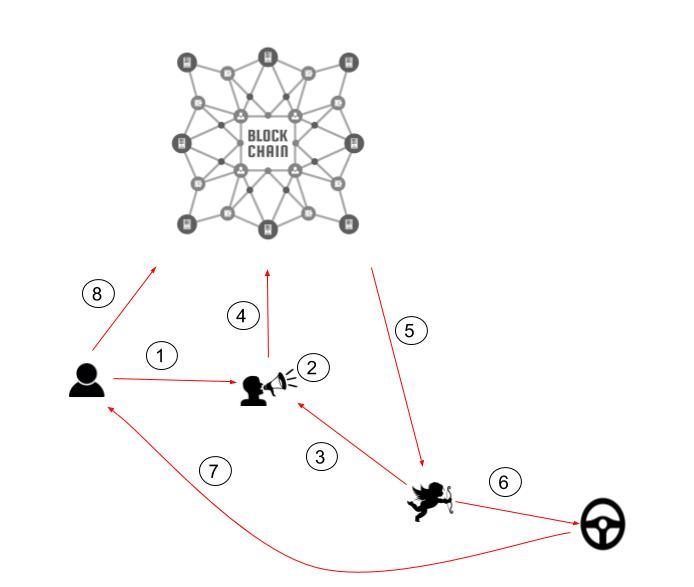
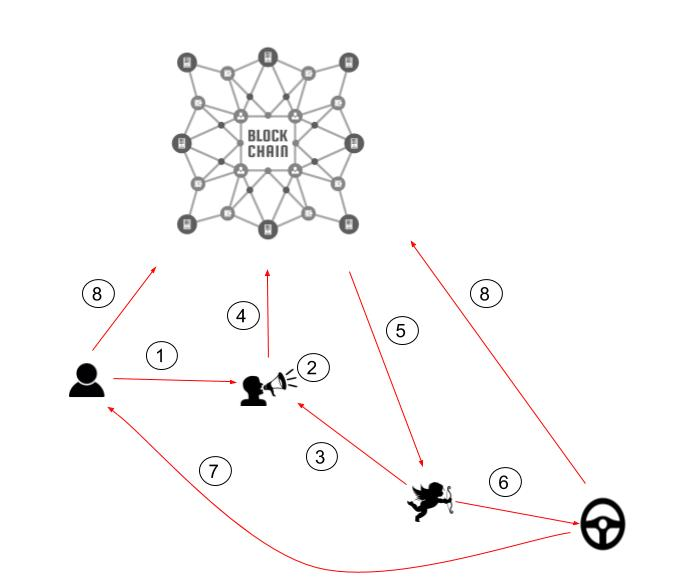
Added ride marketplace doc

diff --git a/docs/marketplace.md b/docs/marketplace.md
@@ -1,0 +1,110 @@
+# Moov Decentralized Ride Hailing Marketplace
+&nbsp;&nbsp;&nbsp;&nbsp;&nbsp;&nbsp; In yesterday’s world there were individual taxi services that coordinated rides between riders and taxi drivers. In today’s world we have Uber and Lyft, who have fully automated ride coordination but as an unfortunate consequence own the entire marketplace. Though people are paying significantly less today than they were with yesterday’s slower taxi services, this oligopolization allows Uber and Lyft to charge artificially high brokerage margins(25-40%) and not prioritize user satisfaction or new innovations.  
+
+To dissolve this oligopoly, it is necessary to understand the different parts to Uber and Lyft. The main services offered by them can be listed as follows
+1. Driver Identity checks and Vehicle Inspections.
+2. Public facing servers for users and drivers to connect with each other.
+3. Phone apps for drivers and riders to communicate with servers.
+4. Software to match drivers and riders and perform price point negotiation.
+5. Software to decide the cost of a ride.
+6. Payment processing and escrow.
+7. Handling disputes and rider/driver reputation.
+
+&nbsp;&nbsp;&nbsp;&nbsp;&nbsp;&nbsp; All these different services can be seen as part of a vertical, that is they are individual services dependent on each other to deliver the final ride hailing service. However it is not necessary that one entity provides all the services but by doing so the entity establishes a vertical monopoly. In an alternative scenario, if there were multiple providers in each horizontal and they competed against each other to provide their particular service at the cheapest price to their adjacent horizontals, it would be less of a monopoly. And perhaps as a consequence of tighter competition the cost of the final service maybe a lot cheaper. Is it possible to realize such a system without having to add more complexity to the life of the end user?  
+
+&nbsp;&nbsp;&nbsp;&nbsp;&nbsp;&nbsp; We predict that in the future Uber and Lyft will be dismantled into smaller entities that will specialize in each of the services. Not only will such a change reduce number of single point of failures and strengthen the ride hailing ecosystem as a whole, the resulting tight competition will ensure that the cost of ride hailing will reduce even more over time. We want to devise an open communication protocol leveraging smart contracts to standardize the communication between these different entities. Thus reducing the need for centralization or the middle man who would charge an exorbitant amount to coordinate the actions of the various entities.  
+
+---------------------------------------------------------------------------
+
+#### v0.1 Simple Decentralized Ride hailing
+![v0.1](whitepaper/img/v0_1.jpg)  
+
+&nbsp;&nbsp;&nbsp;&nbsp;&nbsp;&nbsp; This is the simplest implementation of a decentralized ride hailing marketplace as shown in the [demo](http://moovlab.online:8000). A smart contract is hosted on the blockchain, a rider pings the smart contract with a ride request containing the pickup and dropoff location attached with the money(in protocol tokens) they are willing to pay. The smart contract authenticates the validity of a request, transfers money from the user’s account to itself and adds the ride request to queue. On the other end of smart contract, drivers are listening to the queue and the first one to accept a ride request receives it. After the driver picks up and drops off the rider at specified location, the rider will command the smart contract to release the money to the driver.  
+
+This prototype demonstrates how a purely decentralized ride hailing service can be built without the need for any middlemen. However, there are some drawbacks.
+
+###### User Perspective:
+* Riders do not know the correct price for a particular ride, thus they are expected to take random guesses.
+* Drivers cannot be pragmatically expected to sieve through the massive number of ride requests and find the one that gives them the best bang for their buck.
+* There is no inherent mechanism to handle disputes between the driver and rider.   
+###### Technical Perspective:
+* All the interactions happen on chain, which can be very slow and inefficient.
+
+---------------------------------------------------------------------------
+
+#### v0.2: Uber plugged to the blockchain
+![v0.2](whitepaper/img/v0_2.jpg)  
+
+In this improvised model a new entity has been added, the matchmaker.   
+1. Riders fill a ride request with the pick up and drop off locations, authorized matchmaker, matchmaker fee(in protocol tokens) and maximum money they are willing to pay for the ride(in protocol tokens), then sign it and send it to the matchmaker.
+2. When the matchmaker receives a ride request, it will match the request with the best driver based on parameters like location, rating, price etc.
+3. The matchmaker will then forward the request to a driver, if the request meets the driver’s requirement, he will sign it and send it back matchmaker, who will then forward entire request to the blockchain for processing.
+4. The blockchain will verify the signatures then notify the driver, then the driver will pick up the rider then drop him at specified location and notify the smart contract.
+5. After the rider has been dropped, he will command the smart contract to distribute the money to the various parties as agreed.
+6. However, if one of the parties files a dispute, the blockchain will kick the transaction to the matchmaker, ask it to resolve the dispute and distribute the money as it sees fit.  
+
+Although this is a step up, it is basically Uber using the blockchain for payment processing instead of Visa or Amex. As this model scales it will likely produce monopolies due to the network effect or the winner-take-all effect. Since the probability of finding the best match is directly dependent on the number of people using a matchmaker thus it is likely to produce a few gigantic matchmakers. Consequently the barrier to entry for a new matchmaker will be high resulting in reduced competition thus hampering the process of capitalism.  
+
+![v0.2_scale](whitepaper/img/v0_2_scale.jpg)  
+
+---------------------------------------------------------------------------
+
+#### v0.3: Dismantled Uber
+
+![v0.3](whitepaper/img/v0_3.jpg)  
+
+In this improvised model a new entity has been added, the ride manager(guy with megaphone) who is incharge of broadcasting ride requests received from riders. On the other hand, the matchmaker is only incharge of going through the ride requests broadcasted by different managers and finding the best match for its drivers. Adding the ride manager decouples the broadcasting and ride matching layers thus taking care of the network effect. As this model scales it is significantly less likely to produce oligopolies.  
+
+![v0.3_scale](whitepaper/img/v0_3_scale.jpg)  
+
+---------------------------------------------------------------------------
+
+#### v0.4 With integration of state authority
+![v0.4](whitepaper/img/v0_4.jpg)  
+
+In this improvised model the government or its transportation regulating authority is also included, where it directly or indirectly(through authorized 3rd parties) enforces drivers and their vehicles to meet the safety requirements. It has to then add the the addresses of the verified drivers to a license registry hosted on the blockchain. Whenever new ride requests are sent to the chain for processing, the processing smart contract will verify that the driver address is present in the license registry. Integrating the government into the chain also allows the government to easily collect taxes to fund their invaluable services like road maintenance and emergency services.
+
+---------------------------------------------------------------------------
+
+#### v1.0 MOOV ride hailing marketplace
+
+The detailed steps of the ride hailing process:
+
+![v1.0](whitepaper/img/v0_3_detail.jpg)
+1. Rider will use the generic Moov phone app with which he can connect to any of the ride managers, while some ride managers may have their custom apps. The rider will connect with a certain ride manager and tell it where he wants to go. The ride manager will analyze current market data and respond with an estimated price and a maximum price. Through the app the rider will sign a ride request containing pickup location, drop off location, maximum price(in protocol tokens), address of the ride manager and the manager fee.
+2. The ride manager will receive the request and conduct a sub second period auction for the ride request. If anybody agrees to accept the ride request at the advertised price the manager will award it to them otherwise the manager will incrementally advertise the ride request for higher prices till the maximum price indicated by the user.
+3. On the other end there will be a host of matchmakers each connected to a group of drivers with authorization from the drivers to pick up a ride request on their behalf. The matchmakers will go through all the ride requests in auction and do a quick math to see if will be a good match for any one of its drivers in terms of time and money. If yes then the matchmaker will sign an accept request message containing the transaction hash of the ride request, the driver address and the matchmaker address and then send the accept request to the manager.
+4. The manager will pick up the first accept request, close the auction, sign and send both requests to the smart contract hosted on the blockchain for verification.
+5. If both requests are valid, that is the rider has enough money, the matchmaker has been authorized by the driver and the driver has certificate to prove he meets safety requirements, the smart contract will approve the request and move money from the rider’s account to itself. The smart contract will also send a notification to the manager and the matchmaker.
+6. The ride manager will forward the notification to the rider while matchmaker will forward it to the driver.
+7. Once the driver gets the notification, he will pick up and drop off the rider as per agreement and then both parties will notify the smart contract.
+8. If both parties indicate to the smart contract that weren’t any issues, the smart contract will then distribute the money as agreed earlier.
+9. (Conditional)However, if one of the parties raises an issue the smart contract will dispatch a dispute request to the manager and authorize the manager to distribute the money as the manager sees fit. The manager will examine the evidences, award the money to the party it judges to be the victim and receive a pre-agreed part of the disputed amount as fees for its service.
+
+This model is more immune to oligopolization because of the proper separation of services. It is easy for the rider to move between ride managers. It is also easy for the drivers to move between matchmakers. This ease of movement and low barrier to entry will increase competition, which will reduce cost and improve quality of service overtime.
+
+---------------------------------------------------------------------------
+
+#### FAQ
+1. Is this a decentralized or a trustless service?  
+Although this model is significantly more decentralized than uber or lyft it is not a fully decentralized or a trustless service. In this model riders trust that the ride managers will be honest about the ride estimation and micro auction process. However the revenue model for the ride manager is based on loyalty, so it is of utmost importance for them that their riders do not lose trust, otherwise they could easily leave them. Similarly, drivers trust matchmakers to find the best match for them, again the revenue model for the matchmaker is also based on loyalty. So it is of utmost importance for them that their drivers do not lose trust, otherwise they could easily leave them for another provider.
+2. Why do ride managers conduct micro auctions?  
+Negotiating prices is usually a process that takes a lot of back and forth. Imagine multiple ride managers and matchmakers negotiating at the same time, it could become a very noisy process. But by making the ride managers conduct micro auctions, the number of interactions between the manager and matchmaker is minimized.
+3. How are the fees for manager and matchmaker allocated?  
+Usually a manager will specify a flat fee to host a ride request and specify a percentage cut of the disputed amount if it has to resolve disputes. On the other end, matchmakers will specify a percentage cut to drivers for finding them the best match.
+
+---------------------------------------------------------------------------
+
+#### Open source tools
+
+![v1.0](whitepaper/img/DecentralizedPlatform.jpg)
+
+We will develop a suite of open source software that will make it easy for developer to launch ride manager and matchmaker services. This suite of software will include
+1. An open source version of the ride manager.
+2. An open source version of the phone app riders will use to connect with the ride manager.
+3. An open source version of a data aggregator which will collect current ride request data and builds a real time heat map.
+4. An open source version of a machine learning algorithm that mines through the aggregated ride request data and predicts future ride requests heat map.
+5. An open source version of a AI credit rater which goes through the trove of available information and gives each rider and driver a rating.
+6. An open source version of the matchmaker which will use 3, 4 & 5 in conjunction with its internal AI software to find the best matches for its drivers.
+7. An open source version of the app drivers will use to connect with the matchmaker.
+All these open sourced tools will significantly lower the entry for anyone to become one of the service providers in our ecosystem, thus increasing the adoption rate of our protocol.

diff --git a/docs/index.md b/docs/index.md
@@ -7,7 +7,7 @@ This is the home page for all Moov documentation.
 
 [Moov Master Plan](master_plan.md): This document outlines how to raise money to fund the development of a decentralized ride hailing marketplace as well as a computer chip that make any car into a self driving car. It also describes the high level goals and timelines of the project.
 
-[MOOV, the decentralized Ride Hailing Marketplace](whitepaper/index.md): This document describes the open protocols that will be used to decentralize the ride hailing marketplace.
+[MOOV decentralized Ride Hailing Marketplace](marketplace.md): This document describes the open protocols that will be used to decentralize the ride hailing marketplace.
 
 [LNGA, the self driving car chip](avStack.md): This document outlines the technology for the self driving car chip and the plan for its development.
 
